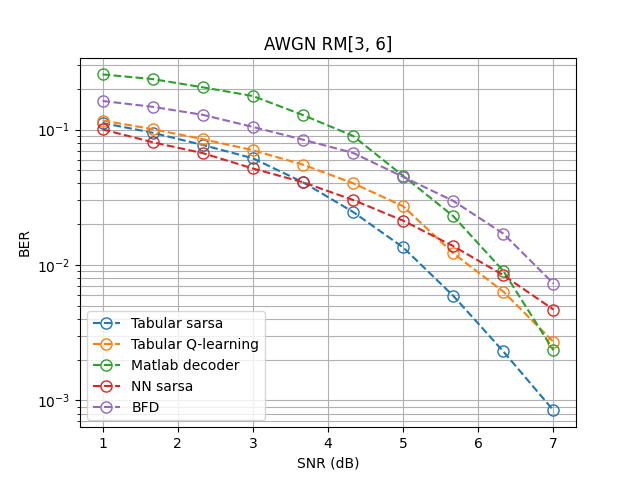
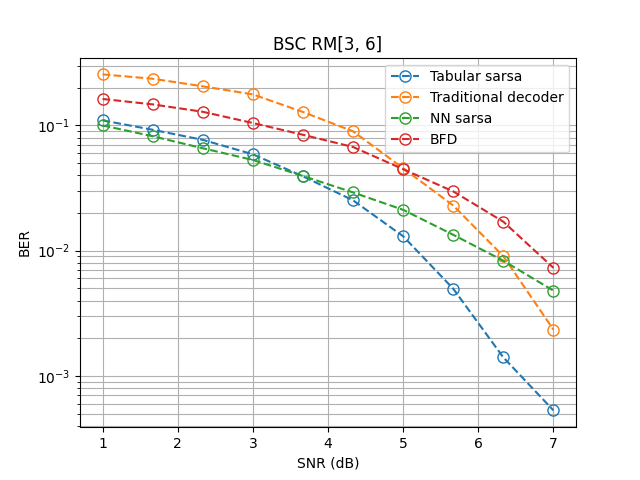
April 6th
Changed plot name from AWGN to BSC

Changed region(s): [[0.0625, 0.0625, 0.9062, 0.9062]]

diff --git a/bf_env.py b/bf_env.py
@@ -30,22 +30,21 @@ class BitFlippingEnv(gym.Env):
         else:
             self.z = self.trx_message()
 
-        # self.residual = np.sum(self.codeword)
         self.num_actions = 0
-        # self.state = (tuple(self.code.syndrome(self.z)), self.residual)
+
         self.state = tuple(self.code.syndrome(self.z))
-        if self.channel_type == 'BSC':
-            llr = np.log((1 - self.noise) / self.noise) * self.z
-        elif self.channel_type == 'AWGN':
+        # if self.channel_type == 'BSC':
+        #     llr = np.log((1 - self.noise) / self.noise) * self.z
+        # elif self.channel_type == 'AWGN':
             # LLR: 
             #   - +ve value = more likely to be a zero
             #   - -ve value = more likely to be a one
             #   - smaller magnitude = less confident (we should flip)
 
-            self.sigma2 = 1/(2*self.r*10**(self.noise/10))
-            llr = 2*self.z_double/self.sigma2 # LLRs
+            # self.sigma2 = 1/(2*self.r*10**(self.noise/10))
+            # llr = 2*self.z_double/self.sigma2 # LLRs
             
-        self.llr_avg = np.abs(llr)
+        # self.llr_avg = np.abs(llr)
         return self.state
 
     def step(self, action):
@@ -57,29 +56,28 @@ class BitFlippingEnv(gym.Env):
         self.state = self.code.syndrome(self.z) # Flip the bit
         
         # Method used in paper (need to review):
-        if self.channel_type == 'BSC':
-            llr = np.log((1 - self.noise) / self.noise) * self.z
-        elif self.channel_type == 'AWGN':
-            # if the bit we flipped has a postive LLR then it is a zero
-            # if the bit we flipped has a negative LLR then it is a one
-            # BPSK: {0, 1} -> {1, -1}
-            newbit = 1 if np.sign(self.z_double[action]) > 0 else -1
-            self.z_double[action] = newbit
-            llr = 2*self.z/self.sigma2 # LLRs
+        # if self.channel_type == 'BSC':
+        #     llr = np.log((1 - self.noise) / self.noise) * self.z
+        # elif self.channel_type == 'AWGN':
+        #     # if the bit we flipped has a postive LLR then it is a zero
+        #     # if the bit we flipped has a negative LLR then it is a one
+        #     # BPSK: {0, 1} -> {1, -1}
+        #     newbit = 1 if np.sign(self.z_double[action]) > 0 else -1
+        #     self.z_double[action] = newbit
+        #     llr = 2*self.z/self.sigma2 # LLRs
 
 
-        self.llr_avg = (self.num_actions*self.llr_avg + np.abs(llr)) / (self.num_actions + 1)
-        self.path_penalty = - self.llr_avg / (10*np.mean(self.llr_avg))
+        # self.llr_avg = (self.num_actions*self.llr_avg + np.abs(llr)) / (self.num_actions + 1)
+        # self.path_penalty = - self.llr_avg / (10*np.mean(self.llr_avg))
 
-        # reward = -1/10
+        reward = -1/10
         done = self.num_actions == 10 or np.all(self.state == 0)
-        reward = self.path_penalty[action]
+        # reward = self.path_penalty[action]
 
         if np.all(self.state == 0):
             reward += 1
 
         return tuple(self.state), reward, done, None
-        # return (tuple(self.state), self.residual), reward, done, None
 
     def render(self, mode='console'):
         if mode != 'console':

diff --git a/main.py b/main.py
@@ -187,7 +187,7 @@ def BHC_AWGN():
     agent_tabular = BCH_agent()
     _, _, env_sarsa, env_qlearn = fit(agent_tabular, channel, noise, type='tabular')
     BER_tabular_sarsa = eval(env_sarsa, channel, type='tabular')
-    BER_tabular_qlearn = eval(env_qlearn, channel, type='tabular')
+    # BER_tabular_qlearn = eval(env_qlearn, channel, type='tabular')
 
     # parameterized setting
     agent_param = BCH_agent()
@@ -204,10 +204,10 @@ def BHC_AWGN():
     bfd = bfd[:, 0]
 
     # labeling figures
-    name = channel + " " + code_type + "[" + code_label[0] + ", " + code_label[1] + "]" 
+    name = 'BSC' + " " + code_type + "[" + code_label[0] + ", " + code_label[1] + "]" 
 
     # plot results
-    plot_BER(dB_range, BER_tabular_sarsa, BER_tabular_qlearn, BER_param, bfd, bench, 'SNR (dB)', name, figure_name)
+    plot_BER(dB_range, BER_tabular_sarsa, BER_param, bfd, bench, 'SNR (dB)', name, figure_name)
 
 ####################################################################################################################
 # 5. RM with AWGN
@@ -227,7 +227,7 @@ def RM_AWGN():
     agent_tabular = RM_agent(code_label)
     _, _, env_sarsa, env_qlearn = fit(agent_tabular, channel, noise, type='tabular')
     BER_tabular_sarsa = eval(env_sarsa, channel, type='tabular')
-    BER_tabular_qlearn = eval(env_qlearn, channel, type='tabular')
+    # BER_tabular_qlearn = eval(env_qlearn, channel, type='tabular')
 
     # # parameterized setting
     agent_param = RM_agent(code_label)
@@ -244,10 +244,10 @@ def RM_AWGN():
     bfd = bfd[:, 0]
 
     # labeling figures
-    name = channel + " " + code_type + "[" + code_label[0] + ", " + code_label[1] + "]" 
+    name = 'BSC' + " " + code_type + "[" + code_label[0] + ", " + code_label[1] + "]" 
 
     # plot results
-    plot_BER(dB_range, BER_tabular_sarsa, BER_tabular_qlearn, BER_param, bench, bfd, 'SNR (dB)', name, figure_name)
+    plot_BER(dB_range, BER_tabular_sarsa, BER_param, bench, bfd, 'SNR (dB)', name, figure_name)
 
 if __name__ == "__main__":
     main()

diff --git a/utils.py b/utils.py
@@ -3,10 +3,10 @@ import matplotlib.pyplot as plt
 from scipy.io import loadmat
 
 
-def plot_BER(x_vars, y_sarsa, y_qlearn, y_param,  bench, bfd, units, title, figure_name):
+def plot_BER(x_vars, y_sarsa, y_param,  bench, bfd, units, title, figure_name):
     plt.semilogy(x_vars, y_sarsa, marker='o', fillstyle='none', linestyle='--', linewidth=1.5, markersize=8, label='Tabular sarsa')
-    plt.semilogy(x_vars, y_qlearn, marker='o', fillstyle='none', linestyle='--', linewidth=1.5, markersize=8, label='Tabular Q-learning')
-    plt.semilogy(x_vars, bench, marker='o', fillstyle='none', linestyle='--', linewidth=1.5, markersize=8, label='Matlab decoder')
+    # plt.semilogy(x_vars, y_qlearn, marker='o', fillstyle='none', linestyle='--', linewidth=1.5, markersize=8, label='Tabular Q-learning')
+    plt.semilogy(x_vars, bench, marker='o', fillstyle='none', linestyle='--', linewidth=1.5, markersize=8, label='Traditional decoder')
     plt.semilogy(x_vars, y_param, marker='o', fillstyle='none', linestyle='--', linewidth=1.5, markersize=8, label='NN sarsa')
     plt.semilogy(x_vars, bfd, marker='o', fillstyle='none', linestyle='--', linewidth=1.5, markersize=8, label='BFD')
     plt.xlabel(units)
